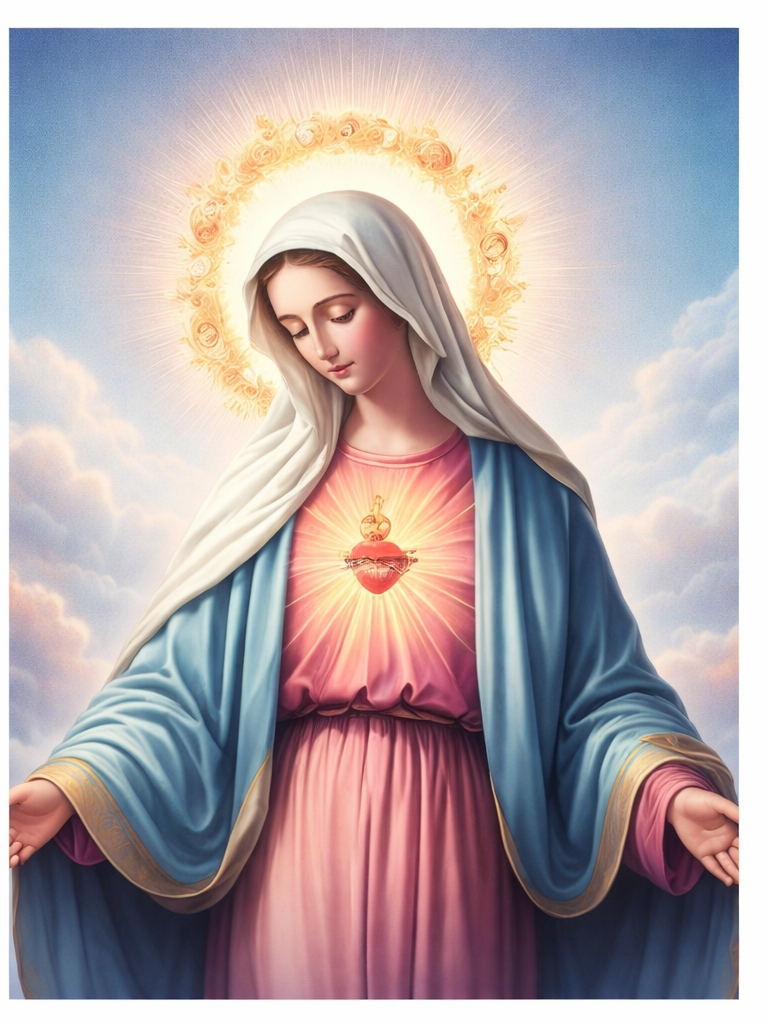
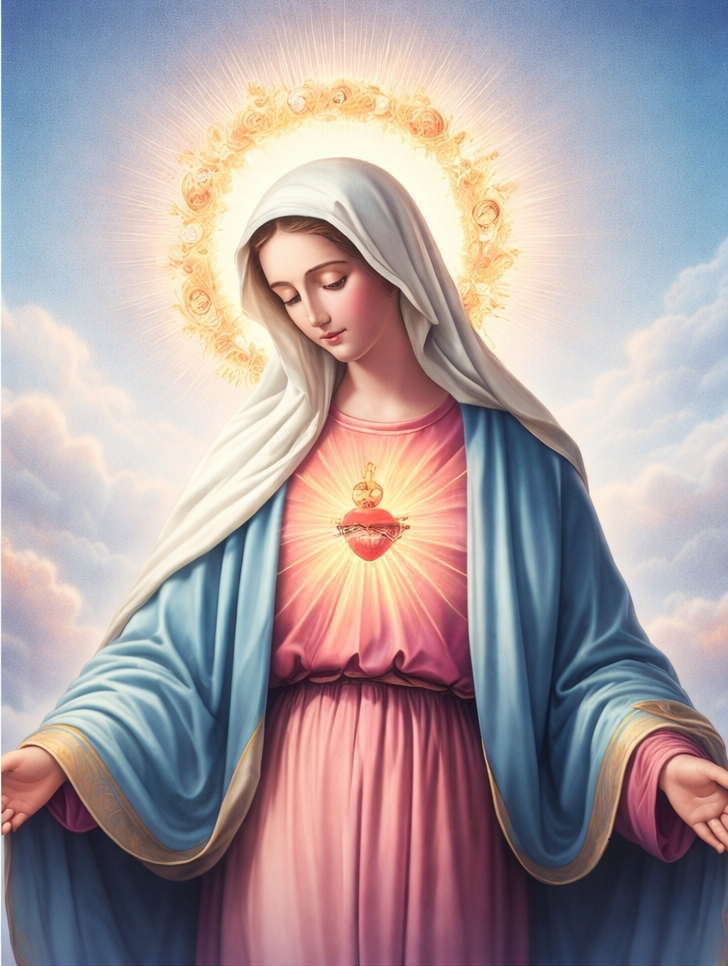
Working Copy: Refactor Prayer Selection buttons with new images and improved layout
- Replaced old images with new borderless Jesus and Virgin Mary images
- Updated button layout with labels positioned at bottom
- Implemented responsive image sizing (135% width, 115% height with object-fit: contain)
- Added gradient overlay for text readability
- Increased button dimensions to 380px x 245px for better image display
- Added hover effects with translateY and box-shadow
- Maintained 2rem gap between buttons for proper spacing
- Created 5-shot-pivot-protocol workflow for anti-tunnel vision

diff --git a/src/components/PrayerSelectionScreen.tsx b/src/components/PrayerSelectionScreen.tsx
@@ -64,19 +64,133 @@ export function PrayerSelectionScreen({ onSelectRosary, onSelectSacredPrayers, o
                 </button>
             </div>
 
-            <div className="selection-content">
+            <div style={{
+                flex: 1,
+                display: 'flex',
+                flexDirection: 'column',
+                alignItems: 'center',
+                justifyContent: 'center',
+                gap: '2rem',
+                padding: '2rem'
+            }}>
                 <button
-                    className="selection-card sacred-prayers-card"
                     onClick={onSelectSacredPrayers}
+                    style={{
+                        display: 'flex',
+                        flexDirection: 'column',
+                        alignItems: 'center',
+                        justifyContent: 'flex-end',
+                        width: '100%',
+                        maxWidth: '380px',
+                        height: '245px',
+                        cursor: 'pointer',
+                        position: 'relative',
+                        overflow: 'hidden',
+                        padding: 0,
+                        background: 'none',
+                        border: 'none',
+                        borderRadius: '16px',
+                        transition: 'all 0.3s ease'
+                    }}
+                    onMouseEnter={(e) => {
+                        e.currentTarget.style.transform = 'translateY(-5px)';
+                        e.currentTarget.style.boxShadow = '0 10px 30px -10px rgba(0, 0, 0, 0.5)';
+                    }}
+                    onMouseLeave={(e) => {
+                        e.currentTarget.style.transform = 'translateY(0)';
+                        e.currentTarget.style.boxShadow = 'none';
+                    }}
                 >
-                    <span className="card-label">{t.sacredPrayers}</span>
+                    <img
+                        src="/images/sacred-prayers-bg.jpg"
+                        alt="Sacred Prayers"
+                        style={{
+                            position: 'absolute',
+                            top: '50%',
+                            left: '50%',
+                            transform: 'translate(-50%, -50%)',
+                            width: '135%',
+                            height: '115%',
+                            objectFit: 'contain',
+                            objectPosition: 'center center',
+                            borderRadius: '16px'
+                        }}
+                    />
+                    <span style={{
+                        fontSize: '1.375rem',
+                        fontWeight: 600,
+                        textTransform: 'uppercase',
+                        letterSpacing: '1.5px',
+                        color: 'white',
+                        zIndex: 2,
+                        textShadow: '0 3px 8px rgba(0, 0, 0, 0.9)',
+                        padding: '1.25rem 1.5rem',
+                        width: '100%',
+                        textAlign: 'center',
+                        background: 'linear-gradient(to top, rgba(0, 0, 0, 0.85) 0%, rgba(0, 0, 0, 0.4) 70%, transparent 100%)',
+                        position: 'relative',
+                        borderRadius: '0 0 16px 16px'
+                    }}>{t.sacredPrayers}</span>
                 </button>
 
                 <button
-                    className="selection-card rosary-card"
                     onClick={onSelectRosary}
+                    style={{
+                        display: 'flex',
+                        flexDirection: 'column',
+                        alignItems: 'center',
+                        justifyContent: 'flex-end',
+                        width: '100%',
+                        maxWidth: '380px',
+                        height: '245px',
+                        cursor: 'pointer',
+                        position: 'relative',
+                        overflow: 'hidden',
+                        padding: 0,
+                        background: 'none',
+                        border: 'none',
+                        borderRadius: '16px',
+                        transition: 'all 0.3s ease'
+                    }}
+                    onMouseEnter={(e) => {
+                        e.currentTarget.style.transform = 'translateY(-5px)';
+                        e.currentTarget.style.boxShadow = '0 10px 30px -10px rgba(0, 0, 0, 0.5)';
+                    }}
+                    onMouseLeave={(e) => {
+                        e.currentTarget.style.transform = 'translateY(0)';
+                        e.currentTarget.style.boxShadow = 'none';
+                    }}
                 >
-                    <span className="card-label">{t.rosary}</span>
+                    <img
+                        src="/images/rosary-bg.jpg"
+                        alt="The Rosary"
+                        style={{
+                            position: 'absolute',
+                            top: '50%',
+                            left: '50%',
+                            transform: 'translate(-50%, -50%)',
+                            width: '135%',
+                            height: '115%',
+                            objectFit: 'contain',
+                            objectPosition: 'center center',
+                            borderRadius: '16px'
+                        }}
+                    />
+                    <span style={{
+                        fontSize: '1.375rem',
+                        fontWeight: 600,
+                        textTransform: 'uppercase',
+                        letterSpacing: '1.5px',
+                        color: 'white',
+                        zIndex: 2,
+                        textShadow: '0 3px 8px rgba(0, 0, 0, 0.9)',
+                        padding: '1.25rem 1.5rem',
+                        width: '100%',
+                        textAlign: 'center',
+                        background: 'linear-gradient(to top, rgba(0, 0, 0, 0.85) 0%, rgba(0, 0, 0, 0.4) 70%, transparent 100%)',
+                        position: 'relative',
+                        borderRadius: '0 0 16px 16px'
+                    }}>{t.rosary}</span>
                 </button>
             </div>
 

diff --git a/src/components/PrayerSelectionScreen.css b/src/components/PrayerSelectionScreen.css
@@ -53,7 +53,7 @@
     flex-direction: column;
     align-items: center;
     justify-content: center;
-    gap: 2rem;
+    gap: 2.2rem;
     padding: 2rem;
 }
 
@@ -61,30 +61,39 @@
     display: flex;
     flex-direction: column;
     align-items: center;
-    justify-content: center;
+    justify-content: flex-end;
     width: 100%;
     max-width: 320px;
     height: 200px;
-    background-color: rgba(255, 255, 255, 0.05);
-    /* Changed to background-color to preserve bg images */
-    border: 1px solid rgba(255, 255, 255, 0.1);
-    border-radius: 20px;
     cursor: pointer;
     transition: all 0.3s cubic-bezier(0.4, 0, 0.2, 1);
     position: relative;
     overflow: hidden;
+    padding: 0;
+    background: none;
+    border: none;
+    border-radius: 20px;
 }
 
 .selection-card:hover {
     transform: translateY(-5px);
-    background-color: rgba(255, 255, 255, 0.08);
-    /* Changed to background-color */
-    border-color: var(--accent-color);
     box-shadow: 0 10px 30px -10px rgba(0, 0, 0, 0.5);
 }
 
 .selection-card:active {
     transform: scale(0.98);
+}
+
+.card-image {
+    position: absolute;
+    top: 0;
+    left: 0;
+    width: 100%;
+    height: 100%;
+    object-fit: cover;
+    object-position: center center;
+    z-index: 1;
+    border-radius: 20px;
 }
 
 .card-icon-wrapper {
@@ -93,7 +102,6 @@
     opacity: 0.8;
     transition: all 0.3s ease;
     z-index: 2;
-    /* Ensure over overlay */
 }
 
 .selection-card:hover .card-icon-wrapper {
@@ -103,34 +111,21 @@
 }
 
 .card-label {
-    font-size: 1.5rem;
-    font-weight: 500;
+    font-size: 1.4375rem;
+    font-weight: 600;
     text-transform: uppercase;
-    letter-spacing: 1px;
+    letter-spacing: 1.5px;
     color: white;
-    /* Ensure visible on dark bg */
-    z-index: 2;
-    /* Ensure over overlay */
-    text-shadow: 0 2px 4px rgba(0, 0, 0, 0.8);
-    /* Add drop shadow for readability */
+    z-index: 3;
+    text-shadow: 0 3px 8px rgba(0, 0, 0, 0.9);
+    padding: 1.25rem 1.5rem;
+    width: 100%;
+    text-align: center;
+    background: linear-gradient(to top, rgba(0, 0, 0, 0.85) 0%, rgba(0, 0, 0, 0.4) 70%, transparent 100%);
+    position: relative;
+    border-radius: 0 0 20px 20px;
 }
 
-/* Specific styling for distinct backgrounds */
-.sacred-prayers-card {
-    background-image: linear-gradient(rgba(0, 0, 0, 0.6), rgba(0, 0, 0, 0.4)), url('/images/sacred-prayers-bg.jpg');
-    background-size: cover;
-    background-position: center 20%;
-    /* Shift focus slightly up to avoid top cropping */
-    background-repeat: no-repeat;
-}
-
-.rosary-card {
-    background-image: linear-gradient(rgba(0, 0, 0, 0.6), rgba(0, 0, 0, 0.4)), url('/images/rosary-bg.jpg');
-    background-size: cover;
-    background-position: center 20%;
-    /* Shift focus slightly up to avoid top cropping */
-    background-repeat: no-repeat;
-}
 
 @media (min-width: 768px) {
     .selection-content {

diff --git a/.agent/workflows/5-shot-pivot-protocol.md b/.agent/workflows/5-shot-pivot-protocol.md
@@ -1,0 +1,33 @@
+---
+description: Anti-tunnel vision protocol - force architectural rethink after 5 failed attempts
+---
+
+# The 5-Shot Pivot Protocol (Anti-Tunnel Vision)
+
+## **Mandatory Rule: Force Architectural Rethink**
+
+### **The Limit**
+If a specific bug or feature fails to be fixed after **5 consecutive attempts**, the agent is **STRICTLY FORBIDDEN** from attempting a 6th similar fix.
+
+### **The Pivot**
+The agent must immediately stop and propose **2-3 radical alternatives** that challenge the underlying assumptions.
+
+### **Execution Steps**
+
+1. **Acknowledge the Pattern**: Explicitly state that 5 attempts have failed
+2. **Stop Current Approach**: Do NOT attempt any variation of the previous 5 solutions
+3. **Challenge Assumptions**: List the assumptions made in all previous attempts
+4. **Propose Alternatives**: Present 2-3 fundamentally different approaches that:
+   - Use different technologies/methods
+   - Challenge the problem definition itself
+   - Question whether the feature is needed as originally conceived
+5. **User Decision**: Wait for user to select an alternative before proceeding
+
+## **Example Pivot Scenarios**
+
+- **CSS not updating** → Check if files are being watched, verify import paths, check browser cache settings, or use inline styles temporarily
+- **State not persisting** → Switch from localStorage to IndexedDB, use different state management library, or reconsider data flow
+- **Component not rendering** → Rebuild component from scratch, use different component pattern, or verify parent component logic
+
+## **Key Principle**
+"If you're in a hole, stop digging."
